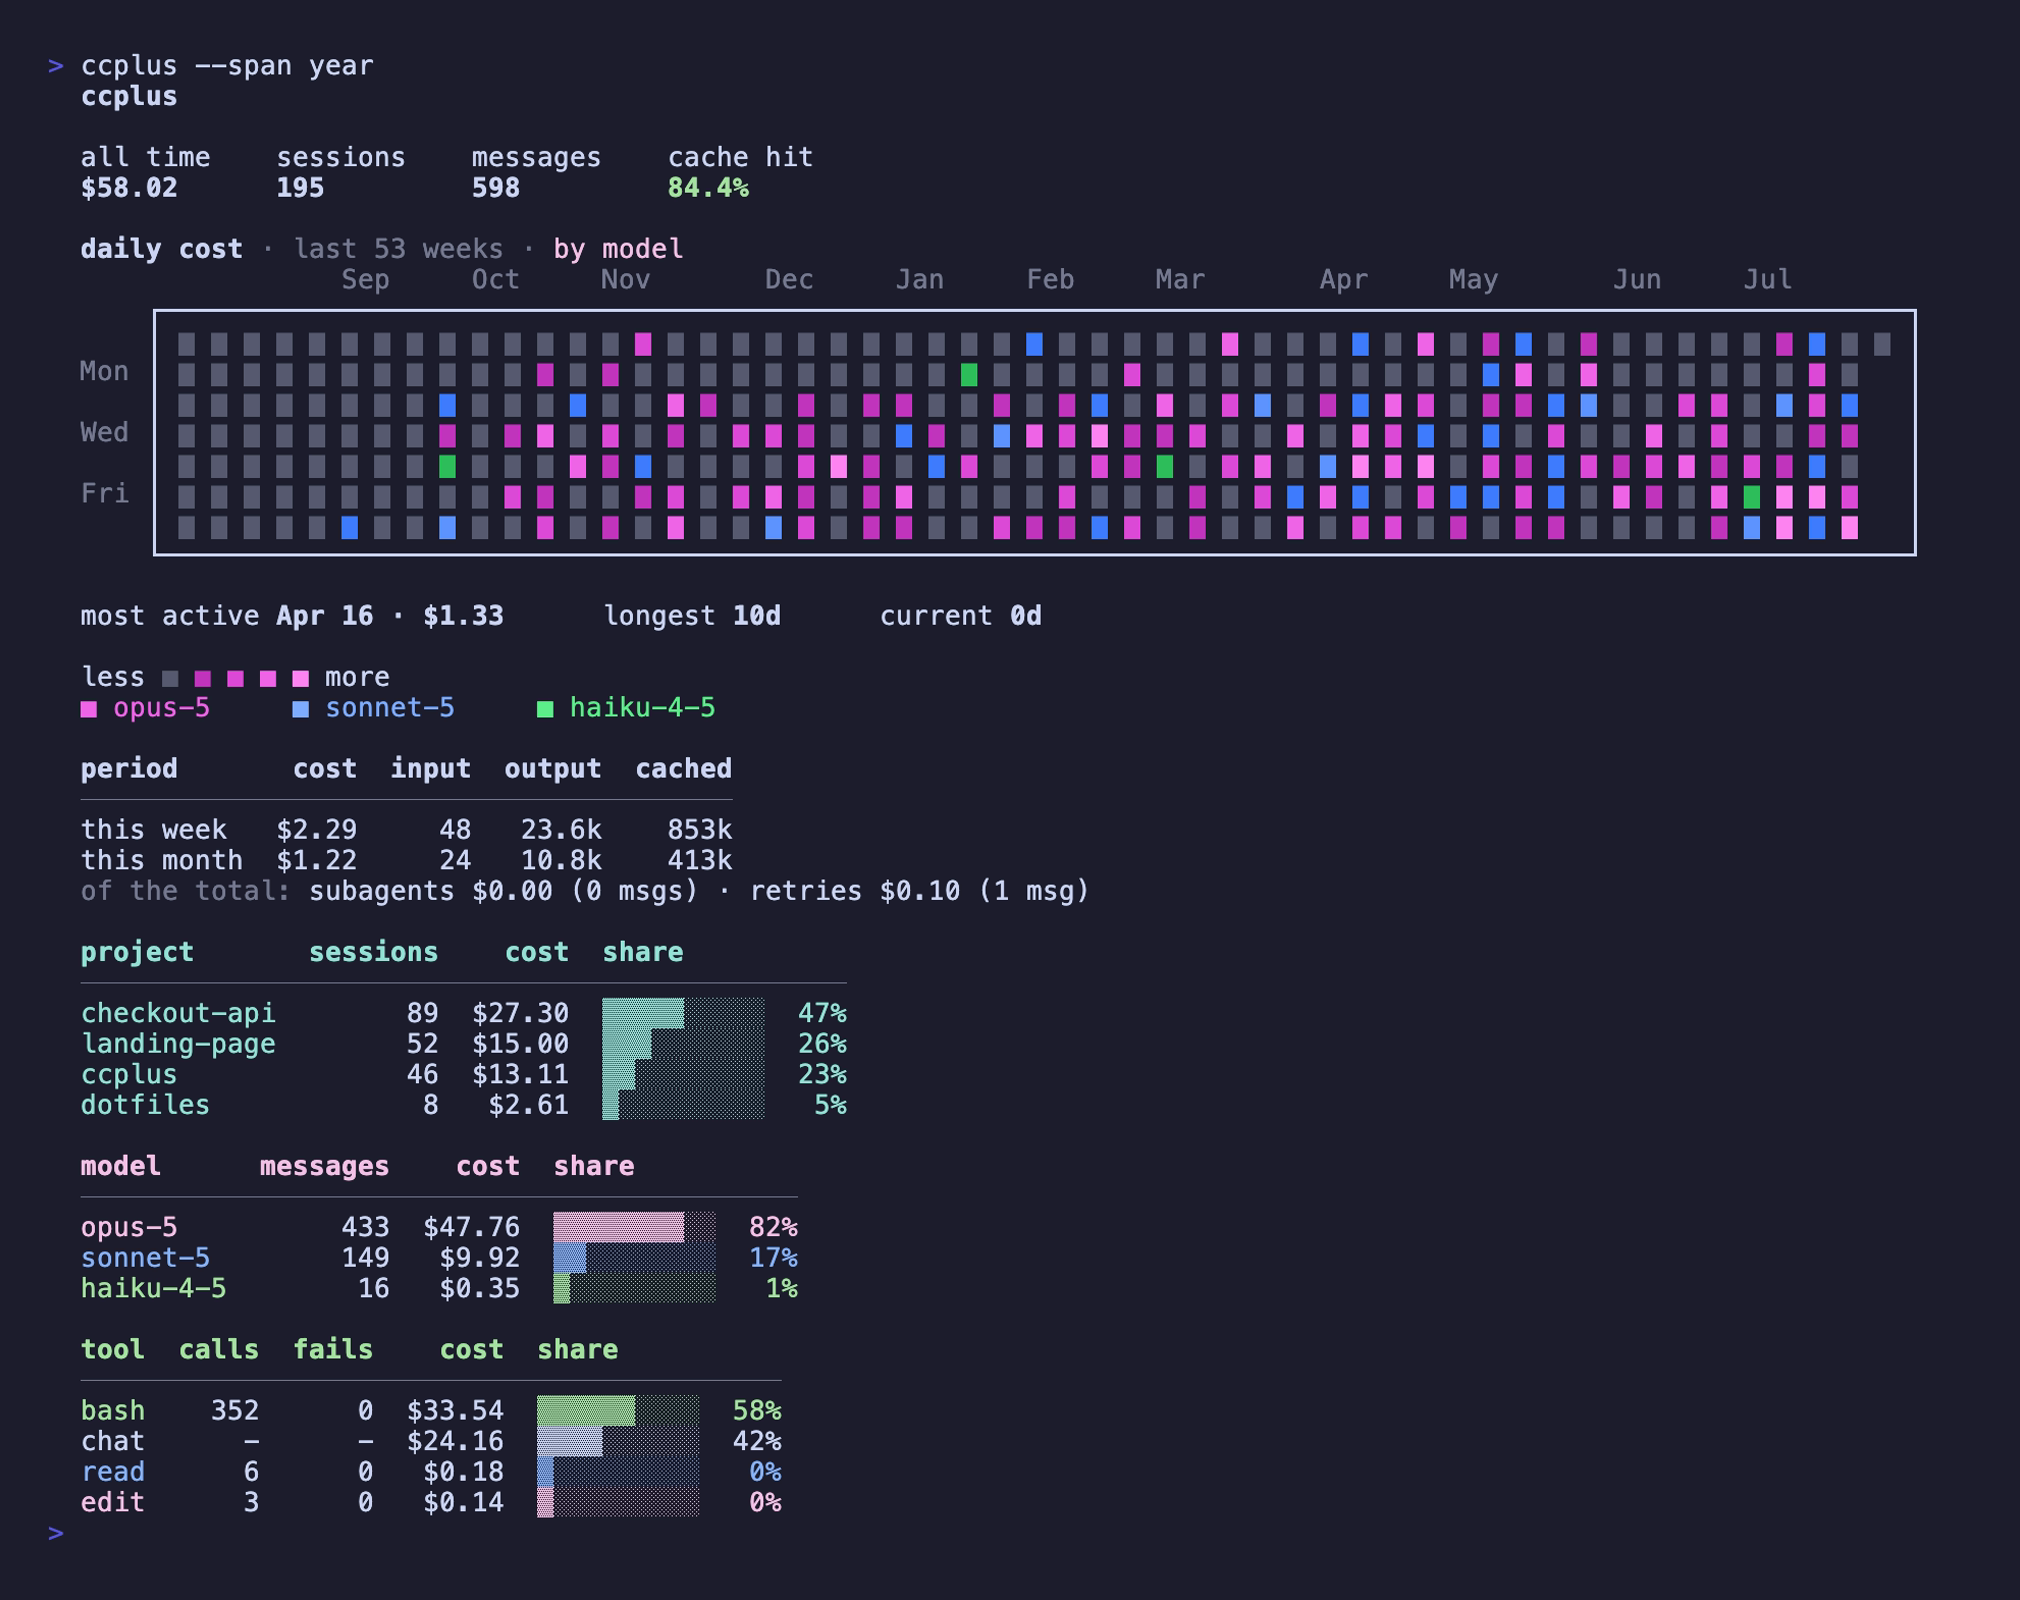
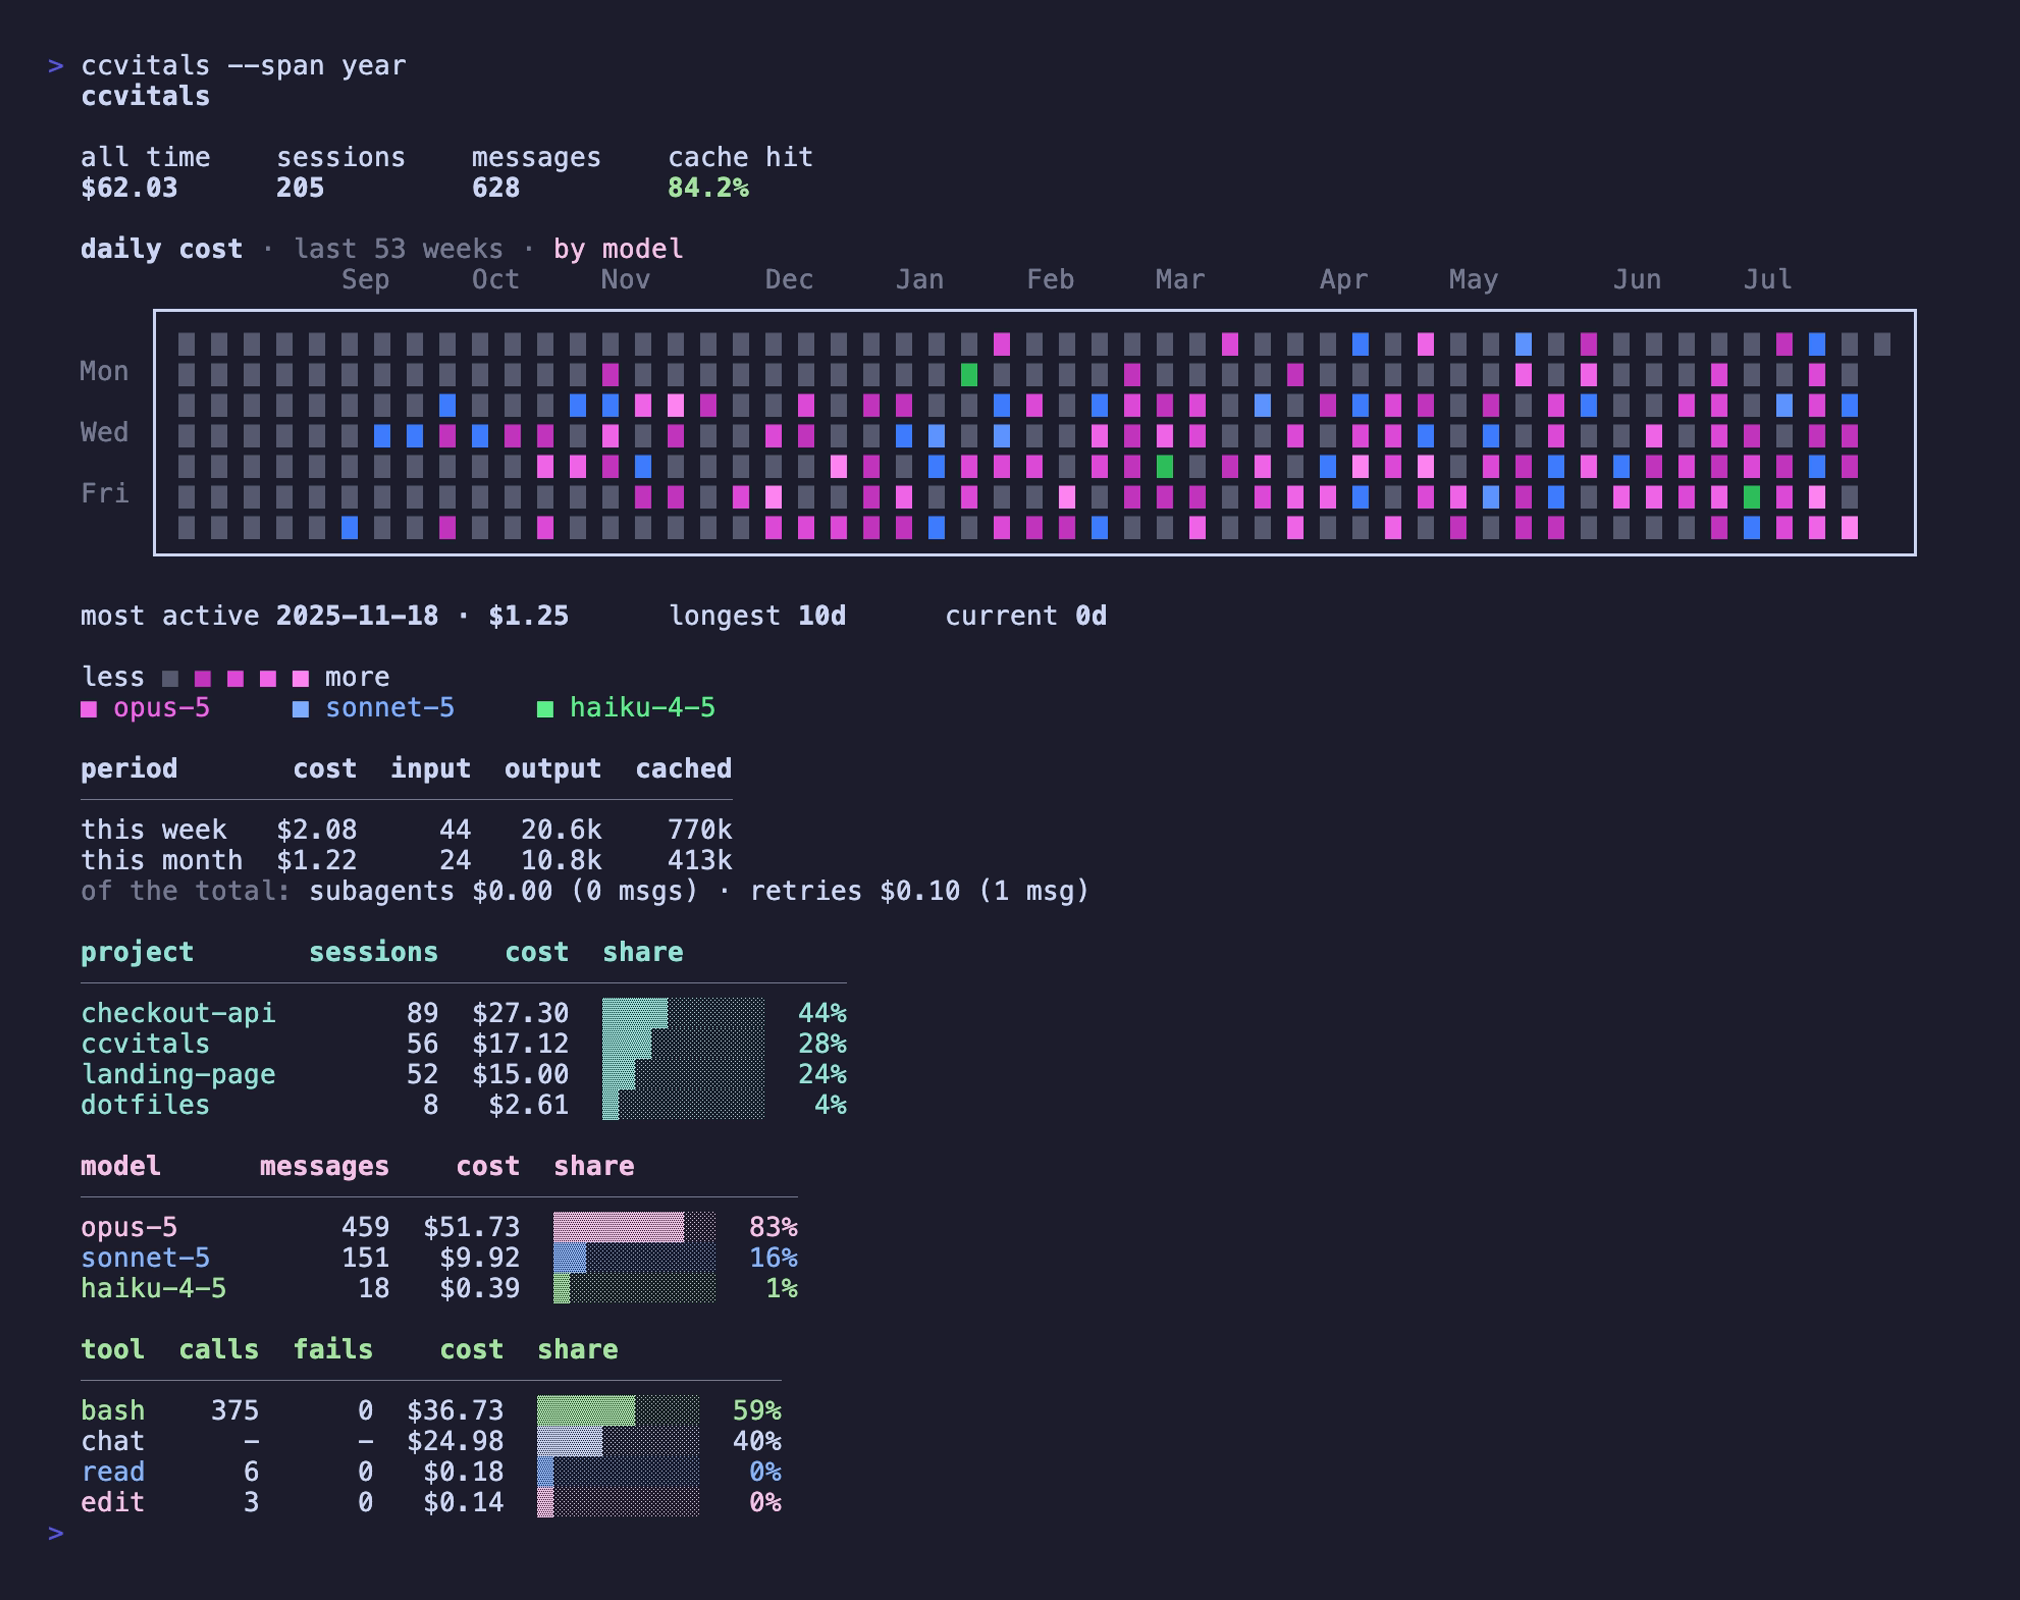
refactor: rename the package to ccvitals

diff --git a/tests/commands.test.ts b/tests/commands.test.ts
@@ -102,7 +102,7 @@ async function writeSearchable(
 }
 
 async function makeRoot(): Promise<string> {
-  const root = await mkdtemp(join(tmpdir(), "ccplus-commands-"));
+  const root = await mkdtemp(join(tmpdir(), "ccvitals-commands-"));
   const projectA = join(root, "-scrubbed-projectA");
   const projectB = join(root, "-scrubbed-projectB");
   await mkdir(projectA);
@@ -146,7 +146,7 @@ describe("dashboard", () => {
   });
 
   it("exits 2 when there are no sessions", async () => {
-    const empty = await mkdtemp(join(tmpdir(), "ccplus-empty-"));
+    const empty = await mkdtemp(join(tmpdir(), "ccvitals-empty-"));
     expect(await runDashboard(flags(empty))).toBe(2);
   });
 
@@ -172,7 +172,7 @@ describe("dashboard", () => {
     const code = await runDashboard(flags(await makeRoot(), { json: false }));
     expect(code).toBe(0);
     const text = logged();
-    expect(text).toContain("ccplus");
+    expect(text).toContain("ccvitals");
     expect(text).toContain("today");
     expect(text).toContain("model");
     expect(text).not.toContain("[");
@@ -184,7 +184,7 @@ describe("dashboard", () => {
     const lines = logged().split("\n");
     // The name alone, a blank, then the labels over their values. No
     // rule under the name: the blank line is the separation.
-    expect(lines[0]).toBe("  ccplus");
+    expect(lines[0]).toBe("  ccvitals");
     const labels = lines.findIndex((line) => line.includes("cache hit"));
     expect(labels).toBeGreaterThan(0);
     for (const label of ["all time", "sessions", "messages", "cache hit"]) {
@@ -424,7 +424,7 @@ describe("doctor", () => {
   });
 
   it("exits 2 when there are no sessions", async () => {
-    const empty = await mkdtemp(join(tmpdir(), "ccplus-empty-"));
+    const empty = await mkdtemp(join(tmpdir(), "ccvitals-empty-"));
     expect(await runDoctor(flags(empty))).toBe(2);
   });
 
@@ -437,11 +437,11 @@ describe("doctor", () => {
     logSpy.mockClear();
     expect(await runDoctor(flags(root, { json: false, ascii: true }))).toBe(0);
     expect(logged()).not.toContain("·");
-    expect(logged()).toContain("ccplus doctor . ");
+    expect(logged()).toContain("ccvitals doctor . ");
   });
 
   it("does not flag stub sessions holding only metadata lines", async () => {
-    const root = await mkdtemp(join(tmpdir(), "ccplus-stub-"));
+    const root = await mkdtemp(join(tmpdir(), "ccvitals-stub-"));
     const project = join(root, "-scrubbed-stub");
     await mkdir(project);
     await writeFile(

diff --git a/tests/discover.test.ts b/tests/discover.test.ts
@@ -8,12 +8,12 @@ import {
 } from "../src/parser/discover.js";
 
 async function makeRoot(): Promise<string> {
-  return mkdtemp(join(tmpdir(), "ccplus-discover-"));
+  return mkdtemp(join(tmpdir(), "ccvitals-discover-"));
 }
 
 describe("discoverSessionFiles", () => {
   it("returns an empty list for a missing root", async () => {
-    const files = await discoverSessionFiles("/nonexistent/ccplus-test-root");
+    const files = await discoverSessionFiles("/nonexistent/ccvitals-test-root");
     expect(files).toEqual([]);
   });
 
@@ -45,27 +45,27 @@ describe("discoverSessionFiles", () => {
 });
 
 describe("defaultProjectsRoot", () => {
-  const original = process.env.CCPLUS_ROOT;
+  const original = process.env.CCVITALS_ROOT;
 
   afterEach(() => {
-    if (original === undefined) delete process.env.CCPLUS_ROOT;
-    else process.env.CCPLUS_ROOT = original;
+    if (original === undefined) delete process.env.CCVITALS_ROOT;
+    else process.env.CCVITALS_ROOT = original;
   });
 
   it("points at Claude Code's own directory by default", () => {
-    delete process.env.CCPLUS_ROOT;
+    delete process.env.CCVITALS_ROOT;
     expect(defaultProjectsRoot()).toMatch(/\.claude\/projects$/);
   });
 
   // The escape hatch the README recordings use, so demo sessions can
   // stand in for real ones without a flag on every command.
-  it("follows CCPLUS_ROOT when it names somewhere", () => {
-    process.env.CCPLUS_ROOT = "/tmp/ccplus-demo";
-    expect(defaultProjectsRoot()).toBe("/tmp/ccplus-demo");
+  it("follows CCVITALS_ROOT when it names somewhere", () => {
+    process.env.CCVITALS_ROOT = "/tmp/ccvitals-demo";
+    expect(defaultProjectsRoot()).toBe("/tmp/ccvitals-demo");
   });
 
-  it("ignores an empty CCPLUS_ROOT rather than reading the filesystem root", () => {
-    process.env.CCPLUS_ROOT = "";
+  it("ignores an empty CCVITALS_ROOT rather than reading the filesystem root", () => {
+    process.env.CCVITALS_ROOT = "";
     expect(defaultProjectsRoot()).toMatch(/\.claude\/projects$/);
   });
 });

diff --git a/tests/statusline.test.ts b/tests/statusline.test.ts
@@ -78,7 +78,7 @@ function summary(extra: Partial<SessionSummary> = {}): SessionSummary {
 
 // Two fixtures under a projects-root layout, basic the newer one.
 async function makeRoot(): Promise<string> {
-  const root = await mkdtemp(join(tmpdir(), "ccplus-status-"));
+  const root = await mkdtemp(join(tmpdir(), "ccvitals-status-"));
   const project = join(root, "-scrubbed-project");
   await mkdir(project);
   const newer = join(project, "11111111-aaaa-bbbb-cccc-000000000001.jsonl");
@@ -539,7 +539,7 @@ describe("runStatusline", () => {
   });
 
   it("errors and exits 2 when run by hand with no sessions", async () => {
-    const root = await mkdtemp(join(tmpdir(), "ccplus-status-empty-"));
+    const root = await mkdtemp(join(tmpdir(), "ccvitals-status-empty-"));
     const code = await runStatusline(flags({ root }), { stdin: undefined });
     expect(code).toBe(2);
     expect(errorSpy).toHaveBeenCalled();

diff --git a/src/commands/dashboard.ts b/src/commands/dashboard.ts
@@ -405,7 +405,7 @@ function printDashboard(data: DashboardData, flags: DashboardFlags): void {
   // a line that long is the widest thing on the screen and reads as a
   // divider between two halves of a report rather than as a heading for
   // the block below it. The blank line does that job.
-  lines.push(`  ${c.bold("ccplus")}`);
+  lines.push(`  ${c.bold("ccvitals")}`);
   lines.push("");
   const cache = cacheHitRatio(total);
   lines.push(
@@ -564,7 +564,7 @@ function printDashboard(data: DashboardData, flags: DashboardFlags): void {
     lines.push("");
     lines.push(
       `  ${r.warn("no pricing")} for ${total.unknownModels.join(", ")}` +
-        `, see ccplus doctor`,
+        `, see ccvitals doctor`,
     );
   }
 

diff --git a/tests/cli.test.ts b/tests/cli.test.ts
@@ -44,8 +44,8 @@ describe("cli scaffold", () => {
     expect(help).toContain("Run with no command for the dashboard");
   });
 
-  it("is named ccplus", () => {
-    expect(buildProgram().name()).toBe("ccplus");
+  it("is named ccvitals", () => {
+    expect(buildProgram().name()).toBe("ccvitals");
   });
 });
 
@@ -70,7 +70,7 @@ describe("option routing", () => {
       seen = command.optsWithGlobals();
     });
     await program.parseAsync([
-      "node", "ccplus", "sessions", "--json", "--limit", "3", "--since", "2026-01-01",
+      "node", "ccvitals", "sessions", "--json", "--limit", "3", "--since", "2026-01-01",
     ]);
     expect(seen).toMatchObject({ json: true, limit: "3", since: "2026-01-01" });
   });

diff --git a/src/parser/discover.ts b/src/parser/discover.ts
@@ -14,13 +14,13 @@ export interface SessionFile {
   sizeBytes: number;
 }
 
-// Where Claude Code keeps its logs. CCPLUS_ROOT points somewhere else,
+// Where Claude Code keeps its logs. CCVITALS_ROOT points somewhere else,
 // which exists for recording the README images against demo sessions
 // rather than against someone's real client work. It is not
 // configuration: there is nothing to set for normal use, and no file
 // anywhere remembers it.
 export function defaultProjectsRoot(): string {
-  const override = process.env.CCPLUS_ROOT;
+  const override = process.env.CCVITALS_ROOT;
   if (override !== undefined && override !== "") return override;
   return join(homedir(), ".claude", "projects");
 }

diff --git a/src/cli.ts b/src/cli.ts
@@ -67,7 +67,7 @@ export function buildProgram(): Command {
   const program = new Command();
 
   program
-    .name("ccplus")
+    .name("ccvitals")
     .description("Token metrics for Claude Code sessions")
     .version(version);
 
@@ -143,7 +143,7 @@ export function buildProgram(): Command {
       );
     });
 
-  // Running ccplus with no command shows the dashboard. --span is how
+  // Running ccvitals with no command shows the dashboard. --span is how
   // far back to look, one rung at a time: week is today and this week,
   // month widens both rows, year adds the heatmap on top. It lives on
   // the root program because the bare dashboard is not a subcommand.

diff --git a/src/commands/statusline.ts b/src/commands/statusline.ts
@@ -13,7 +13,7 @@ import { defaultProjectsRoot } from "../parser/discover.js";
 import { newestSessionPath, type CommandFlags } from "./load.js";
 
 // One readable line for Claude Code's custom statusLine command:
-// ccplus's own cost, the live context fill, and turns for the active
+// ccvitals's own cost, the live context fill, and turns for the active
 // session. Claude Code pipes session JSON on stdin (see the schema at
 // code.claude.com/docs/en/statusline); the key field is
 // transcript_path, which names the exact session file so we never

diff --git a/src/commands/doctor.ts b/src/commands/doctor.ts
@@ -143,7 +143,7 @@ export async function runDoctor(flags: CommandFlags): Promise<number> {
   const dot = c.dim(glyphsFor(flags.ascii === true).dot);
   const lines: string[] = [];
   lines.push(
-    `${c.bold("ccplus doctor")} ${dot} ${sessions.length} session${sessions.length === 1 ? "" : "s"} ` +
+    `${c.bold("ccvitals doctor")} ${dot} ${sessions.length} session${sessions.length === 1 ? "" : "s"} ` +
       `${dot} ${totalLines.toLocaleString()} line${totalLines === 1 ? "" : "s"} read`,
   );
   lines.push("");

diff --git a/src/render/live.ts b/src/render/live.ts
@@ -72,7 +72,7 @@ export interface PanelOptions {
   g: GlyphSet;
   // Total context window for the current model, from the session json
   // Claude Code pipes in. Only the size is taken from there; the token
-  // count stays ccplus's own so it agrees with the dashboard.
+  // count stays ccvitals's own so it agrees with the dashboard.
   contextWindow: number;
   // Everything else the host told us about the live session. Defaults
   // to all absent, which is what a manual run from a shell gets.

diff --git a/src/render/palette.ts b/src/render/palette.ts
@@ -122,7 +122,7 @@ export function assignModelPaints(
 export type Shades = [Paint, Paint, Paint, Paint];
 
 // A 24 bit paint. Written by hand because picocolors is a 16 color
-// library, and this is the one place in ccplus that wants more: a heat
+// library, and this is the one place in ccvitals that wants more: a heat
 // ramp built from dim, normal, bright and bold spends its lowest step
 // on a washed out grey-ish tone, and the low step is the one most days
 // land on.

diff --git a/tests/reader.test.ts b/tests/reader.test.ts
@@ -114,7 +114,7 @@ describe("classifyLines", () => {
 
 describe("readSessionFile", () => {
   it("reads a jsonl file from disk", async () => {
-    const dir = await mkdtemp(join(tmpdir(), "ccplus-test-"));
+    const dir = await mkdtemp(join(tmpdir(), "ccvitals-test-"));
     const path = join(dir, "session.jsonl");
     const content = [
       line({ type: "user", uuid: "u1", parentUuid: null }),
